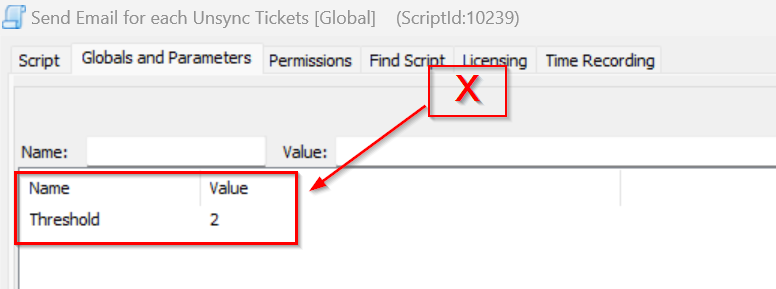
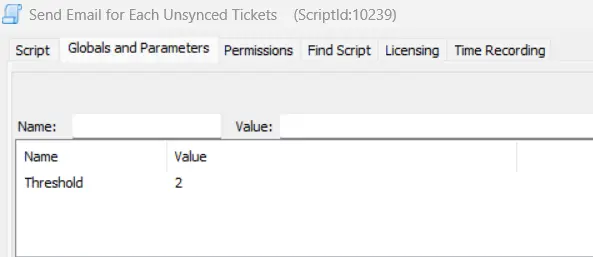
QA_Update
Fixed md file name to match with the title of the document to ensure they arrange alphabetically
Updated with latest screenshots of the email and sample run
Updated ticket section of the script

Changed region(s): [[0.0, 0.1556, 1.0, 1.0], [0.0, 0.0, 0.6678, 0.1245]]

diff --git a/docs/cwa/scripts/send-email-for-each-unsynced-tickets.md b/docs/cwa/scripts/send-email-for-each-unsynced-tickets.md
@@ -1,8 +1,8 @@
 ---
 id: '660fe635-61c8-438f-9b06-4ef6b3656530'
 slug: /660fe635-61c8-438f-9b06-4ef6b3656530
-title: 'Send Email for each Unsync Tickets'
-title_meta: 'Send Email for each Unsync Tickets'
+title: 'Send Email for each Unsynced Tickets'
+title_meta: 'Send Email for each Unsynced Tickets'
 keywords: ['email', 'ticket', 'sync', 'notification', 'automate']
 description: 'This document outlines a script that sends an email notification for each ticket that failed to sync with PSA in the past specified hours. It details requirements, global parameters, and system properties necessary for the script to function effectively.'
 tags: ['email']
@@ -13,6 +13,8 @@ unlisted: false
 ## Summary
 
 The purpose of the script is to send an email notification for each ticket that failed to sync with PSA in the past **X** hours. **X** is the number of hours set for the Global Parameter `Threshold`.
+
+Default: 2  
 
 **Requirements:**
 
@@ -42,13 +44,13 @@ It is a client script and should be scheduled to run once per **X** hours. **X**
 | Subject| Email Subject                             |
 | Body   | Email Content                             |
 
-### Global Parameters
+## Global Parameters
 
 | Name      | Default | Required | Description                                       |
 |-----------|---------|----------|---------------------------------------------------|
 | Threshold | 2       | True     | Number of past hours to check the unsynced tickets from. |
 
-### System Properties
+## System Properties
 
 | Name                           | Example                          | Required | Description                                                                 |
 |--------------------------------|----------------------------------|----------|-----------------------------------------------------------------------------|
@@ -74,6 +76,15 @@ It is a client script and should be scheduled to run once per **X** hours. **X**
 **Body:**
 
 ```PlainText
+Client: [Client Name]
+Location: [Location Name]
+Computer: [Computer Name]
+CWA Ticket #: [Ticket ID of the CWA ticket that was unsyned]
+Ticket Creation Date: [When ticket got created]
+Ticket Status: [Status of the ticket]
+Attachment: [Whether there is any attachment enclosed in the ticket]
+
+Ticket Body:
 %body%
 [Body message of the ticket that failed to sync to PSA]
 ```
